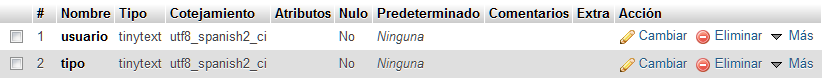
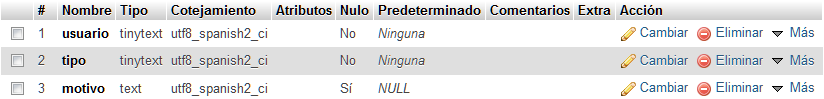
agregada opcion de solicitud de alta/baja de premium desde el perfil de usuario

diff --git a/homeSwitchHome/src/main/java/com/team17/homeSwitchHomeUI/MiPerfilView.java b/homeSwitchHome/src/main/java/com/team17/homeSwitchHomeUI/MiPerfilView.java
@@ -1,8 +1,11 @@
 package com.team17.homeSwitchHomeUI;
 
+import java.sql.SQLException;
+
 import com.vaadin.annotations.Theme;
 import com.vaadin.navigator.Navigator;
 import com.vaadin.navigator.View;
+import com.vaadin.server.Page;
 import com.vaadin.shared.ui.ContentMode;
 import com.vaadin.ui.Alignment;
 import com.vaadin.ui.Button;
@@ -10,25 +13,45 @@ import com.vaadin.ui.Composite;
 import com.vaadin.ui.FormLayout;
 import com.vaadin.ui.HorizontalLayout;
 import com.vaadin.ui.Label;
+import com.vaadin.ui.Notification;
+import com.vaadin.ui.Panel;
+import com.vaadin.ui.TextArea;
+import com.vaadin.ui.UI;
 import com.vaadin.ui.VerticalLayout;
+import com.vaadin.ui.Window;
 import com.vaadin.ui.themes.ValoTheme;
 
 import homeSwitchHome.HomeSwitchHome;
+import homeSwitchHome.Solicitud;
 import homeSwitchHome.Tarjeta;
 import homeSwitchHome.Usuario;
+import homeSwitchHome.UsuarioComun;
 import homeSwitchHome.UsuarioPremium;
 
 @Theme("hometheme")
 public class MiPerfilView extends Composite implements View {  //.necesita composite y view para funcionar correctamente
 	
-	Label cabecera = new Label("Perfil de usuario");
+	private Label cabecera = new Label("Perfil de usuario");
 	
-	Button botonModificarDatos = new Button("Modificar mis datos");
-	Button botonModificarContraseña= new Button("Modificar Contraseña");
-	Button botonModificarTarjeta= new Button("Modificar Tarjeta");
-	Usuario usuario;
-	Tarjeta tarjeta;
+	private Button botonModificarDatos = new Button("Modificar mis datos");
+	private Button botonModificarContraseña = new Button("Modificar Contraseña");
+	private Button botonModificarTarjeta = new Button("Modificar Tarjeta");
+	private Button botonPremium = new Button();
+	
+	private Window ventanaConfirmacion = new Window("Confirmar solicitud");
+	private Label info = new Label("Indique un motivo (opcional):");
+	private TextArea motivo = new TextArea();
+	private Button botonConfirmar = new Button("Enviar");
+	private Button botonCancelar = new Button("Cancelar");
+	private Notification notifResultado;
+	private VerticalLayout ventanaLayout = new VerticalLayout();
+
+	private ConnectionBD conexion = new ConnectionBD();	
+	private Usuario usuario;
+	private Tarjeta tarjeta;
+	private Solicitud solicitud = new Solicitud();
 		
+	
 	public MiPerfilView(Navigator navigator) {		
 		
 		cabecera.addStyleName(ValoTheme.MENU_TITLE);
@@ -59,25 +82,92 @@ public class MiPerfilView extends Composite implements View {  //.necesita compo
 		botonModificarContraseña.addClickListener(e -> this.modificarContraseña(navigator));
 		botonModificarTarjeta.addClickListener(e -> this.mofificarTarjeta(navigator));
 		
+		botonPremium.addClickListener(e -> this.abrirVentanaConfirmacion());		
+		botonPremium.setCaption((usuario instanceof UsuarioComun) ? "Solicitar estado Premium" : "Dejar de ser Premium");
+		
+		botonConfirmar.addClickListener(e -> {
+			this.solicitarAltaBajaPremium(botonPremium);
+		} );		
+		botonCancelar.addClickListener(e -> ventanaConfirmacion.close() );
+
+		motivo.setWidth("400");
+		
+		ventanaConfirmacion.center();
+		ventanaConfirmacion.setWidth("500");
+		ventanaConfirmacion.setResizable(true);
+		ventanaConfirmacion.setModal(true);
+		
+		try {
+			if ( conexion.existeSolicitud(usuario.getMail()) ) {
+				botonPremium.setVisible(false);
+			}
+		} catch (SQLException e1) {
+			e1.printStackTrace();
+		}
+		
+		
 		FormLayout formLayout = new FormLayout(labelParte1, labelMail, labelNombre, labelApellido, labelFechaNac,
 				labelParte2, labelNroTarj, labelMarcaTarj, labelTitTarj , labelFVencTarj,
 				labelParte3, labelCreditos, labelFVencCred, labelTipoUsuario);
 		
-		HorizontalLayout botonesLayout = new HorizontalLayout(botonModificarDatos,botonModificarContraseña,botonModificarTarjeta);
+		HorizontalLayout botones1Layout = new HorizontalLayout(botonModificarDatos,botonModificarContraseña,botonModificarTarjeta,botonPremium);
 		
-		VerticalLayout mainLayout = new VerticalLayout(cabecera, formLayout, botonesLayout);
+		VerticalLayout contentLayout = new VerticalLayout(formLayout, botones1Layout);
+		contentLayout.setSizeUndefined();
+		contentLayout.setComponentAlignment(formLayout, Alignment.MIDDLE_CENTER);
+		contentLayout.setComponentAlignment(botones1Layout, Alignment.MIDDLE_CENTER);
+		
+		Panel panel = new Panel();
+		panel.setContent(contentLayout);
+		panel.setHeight("600");
+		panel.setWidth("700");
+		panel.addStyleName("scrollable");
+		
+		HorizontalLayout botones2Layout = new HorizontalLayout(botonConfirmar,botonCancelar);
+		
+		ventanaLayout = new VerticalLayout(info, motivo, botones2Layout);
+		ventanaLayout.setComponentAlignment(info, Alignment.MIDDLE_CENTER);
+		ventanaLayout.setComponentAlignment(motivo, Alignment.MIDDLE_CENTER);
+		ventanaLayout.setComponentAlignment(botones2Layout, Alignment.MIDDLE_CENTER);
+		
+		ventanaConfirmacion.setContent(ventanaLayout);
+		
+		VerticalLayout mainLayout = new VerticalLayout(cabecera,panel);
 		
 		mainLayout.setComponentAlignment(cabecera, Alignment.MIDDLE_CENTER);
-		mainLayout.setComponentAlignment(formLayout, Alignment.MIDDLE_CENTER);
-		mainLayout.setComponentAlignment(botonesLayout, Alignment.MIDDLE_CENTER);
+		mainLayout.setComponentAlignment(panel, Alignment.MIDDLE_CENTER);
 		
         setCompositionRoot(mainLayout);
 	}		
 	
 
-	private void mofificarTarjeta(Navigator navigator) {
-		navigator.navigateTo("modificarTarjeta");
+	private void solicitarAltaBajaPremium(Button boton) {		
+		
+		solicitud.setMail(usuario.getMail());
+		solicitud.setTipo((usuario instanceof UsuarioComun) ? "alta" : "baja");
+		solicitud.setMotivo(motivo.getValue());
+		
+		try {
+			conexion.agregarSolicitud(solicitud);
+		} catch (SQLException e) {
+			e.printStackTrace();
+		}
+		
+		this.mostrarNotificacion("<p style=\"text-align: center;\"><strong>Solicitud enviada.</strong></p>"
+				+"<p style=\"text-align: center;\">Para completar el pedido, comuníquese por teléfono con la empresa</p>"
+				+"<p style=\"text-align: center;\">o acérquese a una de nuestras oficinas.</p>", Notification.Type.HUMANIZED_MESSAGE);		
+		ventanaConfirmacion.close();
+		boton.setVisible(false);		
+	}
 	
+	
+	private void abrirVentanaConfirmacion() {
+		UI.getCurrent().addWindow(ventanaConfirmacion);		
+	}
+
+
+	private void mofificarTarjeta(Navigator navigator) {
+		navigator.navigateTo("modificarTarjeta");	
 	}
 
 
@@ -106,5 +196,14 @@ public class MiPerfilView extends Composite implements View {  //.necesita compo
 	private void modificarUsuario(Navigator navigator) {
 		navigator.navigateTo("modificarPerfil");
 	}
+	
+
+	private void mostrarNotificacion(String st, Notification.Type tipo) {
+    	
+		notifResultado = new Notification(st, tipo);
+		notifResultado.setHtmlContentAllowed(true);
+    	notifResultado.setDelayMsec(-1);;
+    	notifResultado.show(Page.getCurrent());
+    }
 	
 }

diff --git a/homeSwitchHome/src/main/java/com/team17/homeSwitchHomeUI/SolicitudesPremiumView.java b/homeSwitchHome/src/main/java/com/team17/homeSwitchHomeUI/SolicitudesPremiumView.java
@@ -1,7 +1,6 @@
 package com.team17.homeSwitchHomeUI;
 
 import java.sql.SQLException;
-import java.text.DecimalFormat;
 import java.util.ArrayList;
 
 import org.apache.commons.mail.EmailException;
@@ -9,31 +8,19 @@ import org.apache.commons.mail.HtmlEmail;
 
 import com.vaadin.navigator.View;
 import com.vaadin.server.Page;
-import com.vaadin.server.Sizeable.Unit;
 import com.vaadin.shared.ui.ContentMode;
 import com.vaadin.ui.Alignment;
 import com.vaadin.ui.Button;
 import com.vaadin.ui.Composite;
 import com.vaadin.ui.FormLayout;
-import com.vaadin.ui.Grid;
 import com.vaadin.ui.HorizontalLayout;
-import com.vaadin.ui.Image;
 import com.vaadin.ui.Label;
 import com.vaadin.ui.Notification;
 import com.vaadin.ui.Panel;
 import com.vaadin.ui.VerticalLayout;
-import com.vaadin.ui.renderers.NumberRenderer;
 import com.vaadin.ui.themes.ValoTheme;
 
-import homeSwitchHome.EstadoDeReserva;
-import homeSwitchHome.HomeSwitchHome;
-import homeSwitchHome.Propiedad;
-import homeSwitchHome.Reserva;
-import homeSwitchHome.ReservaDirecta;
-import homeSwitchHome.ReservaSubasta;
 import homeSwitchHome.Solicitud;
-import homeSwitchHome.Usuario;
-import homeSwitchHome.UsuarioPremium;
 
 public class SolicitudesPremiumView extends Composite implements View {
 	
@@ -101,12 +88,14 @@ public class SolicitudesPremiumView extends Composite implements View {
 					
 			Label labelTipoSolicitud = new Label("<span style=\"font-weight: bold;\">Tipo de solicitud:</span> " + this.obtenerTipoSolicitud(s.getTipo()), ContentMode.HTML);
 			
+			Label labelMotivo = new Label("<span style=\"font-weight: bold;\">Motivo:</span> " + s.getMotivo(), ContentMode.HTML);
+			
 			Button botonAceptar = new Button("Aceptar solicitud");
 			Button botonRechazar = new Button("Rechazar");
 			
 			HorizontalLayout botonesLayout = new HorizontalLayout(botonAceptar, botonRechazar);
 						
-			FormLayout solicitudLayout = new FormLayout(labelMail,labelTipoActual,labelTipoSolicitud,botonesLayout);
+			FormLayout solicitudLayout = new FormLayout(labelMail,labelTipoActual,labelTipoSolicitud,labelMotivo,botonesLayout);
 			solicitudLayout.setWidth("600");
 			solicitudLayout.setComponentAlignment(botonesLayout, Alignment.MIDDLE_CENTER);
 			solicitudLayout.addStyleName("layout-with-border");

diff --git a/homeSwitchHome/src/main/java/com/team17/homeSwitchHomeUI/ConnectionBD.java b/homeSwitchHome/src/main/java/com/team17/homeSwitchHomeUI/ConnectionBD.java
@@ -878,26 +878,21 @@ public class ConnectionBD {
 
 		return usuarios;
 	}
-
 	
-	public ArrayList<Solicitud> listaSolicitudes() throws SQLException {
+	
+	public void agregarSolicitud(Solicitud s) throws SQLException {
 		
-		String query = "SELECT * FROM solicitudes";
-		ResultSet rs = stmt.executeQuery(query);
+		String query = "INSERT INTO solicitudes (usuario, tipo, motivo)"
+				+" VALUES (?,?,?)";
 
-		ArrayList<Solicitud> solicitudes = new ArrayList<>();
-		Solicitud solicitud;
+		ps = (PreparedStatement) con.prepareStatement(query);
 
-		while (rs.next()) {
-			
-			solicitud = new Solicitud();
-			solicitud.setMail(rs.getString("usuario"));
-			solicitud.setTipo(rs.getString("tipo"));
-			
-			solicitudes.add(solicitud);
-		}
+		ps.setString(1, s.getMail());
+		ps.setString(2, s.getTipo());
+		ps.setString(3, s.getMotivo());
 
-		return solicitudes;
+	    ps.executeUpdate();
+		ps.close();		
 	}
 	
 
@@ -912,6 +907,37 @@ public class ConnectionBD {
     	
     	ps.executeUpdate(); 
     	ps.close();		
+	}
+	
+	
+	public boolean existeSolicitud(String mail) throws SQLException {
+		
+		String query = "SELECT * FROM solicitudes WHERE usuario = '"+mail+"' LIMIT 1";
+		ResultSet rs = stmt.executeQuery(query);
+		
+		return rs.next();
+	}		
+
+
+	public ArrayList<Solicitud> listaSolicitudes() throws SQLException {
+		
+		String query = "SELECT * FROM solicitudes";
+		ResultSet rs = stmt.executeQuery(query);
+
+		ArrayList<Solicitud> solicitudes = new ArrayList<>();
+		Solicitud solicitud;
+
+		while (rs.next()) {
+			
+			solicitud = new Solicitud();
+			solicitud.setMail(rs.getString("usuario"));
+			solicitud.setTipo(rs.getString("tipo"));
+			solicitud.setMotivo(rs.getString("motivo"));
+			
+			solicitudes.add(solicitud);
+		}
+
+		return solicitudes;
 	}
 	
 }

diff --git a/homeSwitchHome/src/main/java/com/team17/homeSwitchHomeUI/ResidenciasUsuarioView.java b/homeSwitchHome/src/main/java/com/team17/homeSwitchHomeUI/ResidenciasUsuarioView.java
@@ -31,15 +31,11 @@ public class ResidenciasUsuarioView extends Composite implements View {
 	private Label msjResultado = new Label("No hay residencias disponibles.");
 	private Grid<Propiedad> tabla = new Grid<>(Propiedad.class);
 	private ArrayList<Propiedad> propiedades;
-	private ArrayList<Propiedad> propiedades2 = new ArrayList<>();
-	
-	private MyUI interfaz;
+	private ArrayList<Propiedad> propiedades2 = new ArrayList<>();	
 	
 		
 	public ResidenciasUsuarioView(boolean mostrarCabecera, MyUI interfaz) throws SQLException {
-		
-		this.interfaz = interfaz;
-		
+				
 		cabecera.addStyleName(ValoTheme.MENU_TITLE);
 		
 		ConnectionBD conectar = new ConnectionBD();

diff --git a/homeSwitchHome/src/main/java/homeSwitchHome/Solicitud.java b/homeSwitchHome/src/main/java/homeSwitchHome/Solicitud.java
@@ -4,18 +4,33 @@ public class Solicitud {
 
 	private String mail;
 	private String tipo; //"alta" o "baja" - podria implementrse como enum pero no es necesario
+	private String motivo; //motivo indicado por el usuario al realizar la solicitud
 	
 	public String getMail() {
 		return mail;
 	}
+	
 	public void setMail(String mail) {
 		this.mail = mail;
 	}
+	
 	public String getTipo() {
 		return tipo;
 	}
+	
 	public void setTipo(String tipo) {
 		this.tipo = tipo;
+	}
+	
+	public String getMotivo() {
+		if (motivo == null) {
+			return "-";
+		} else
+			return motivo;
+	}
+	
+	public void setMotivo(String motivo) {
+		this.motivo = motivo;
 	}
 	
 }

diff --git a/homeSwitchHome/src/main/java/com/team17/homeSwitchHomeUI/ReservarDirectaView.java b/homeSwitchHome/src/main/java/com/team17/homeSwitchHomeUI/ReservarDirectaView.java
@@ -230,7 +230,5 @@ public class ReservarDirectaView extends Composite implements View {
 		notifResultado = new Notification(st, tipo);
     	notifResultado.setDelayMsec(5000);
     	notifResultado.show(Page.getCurrent());
-    }
-	
-	
+    }	
 }
